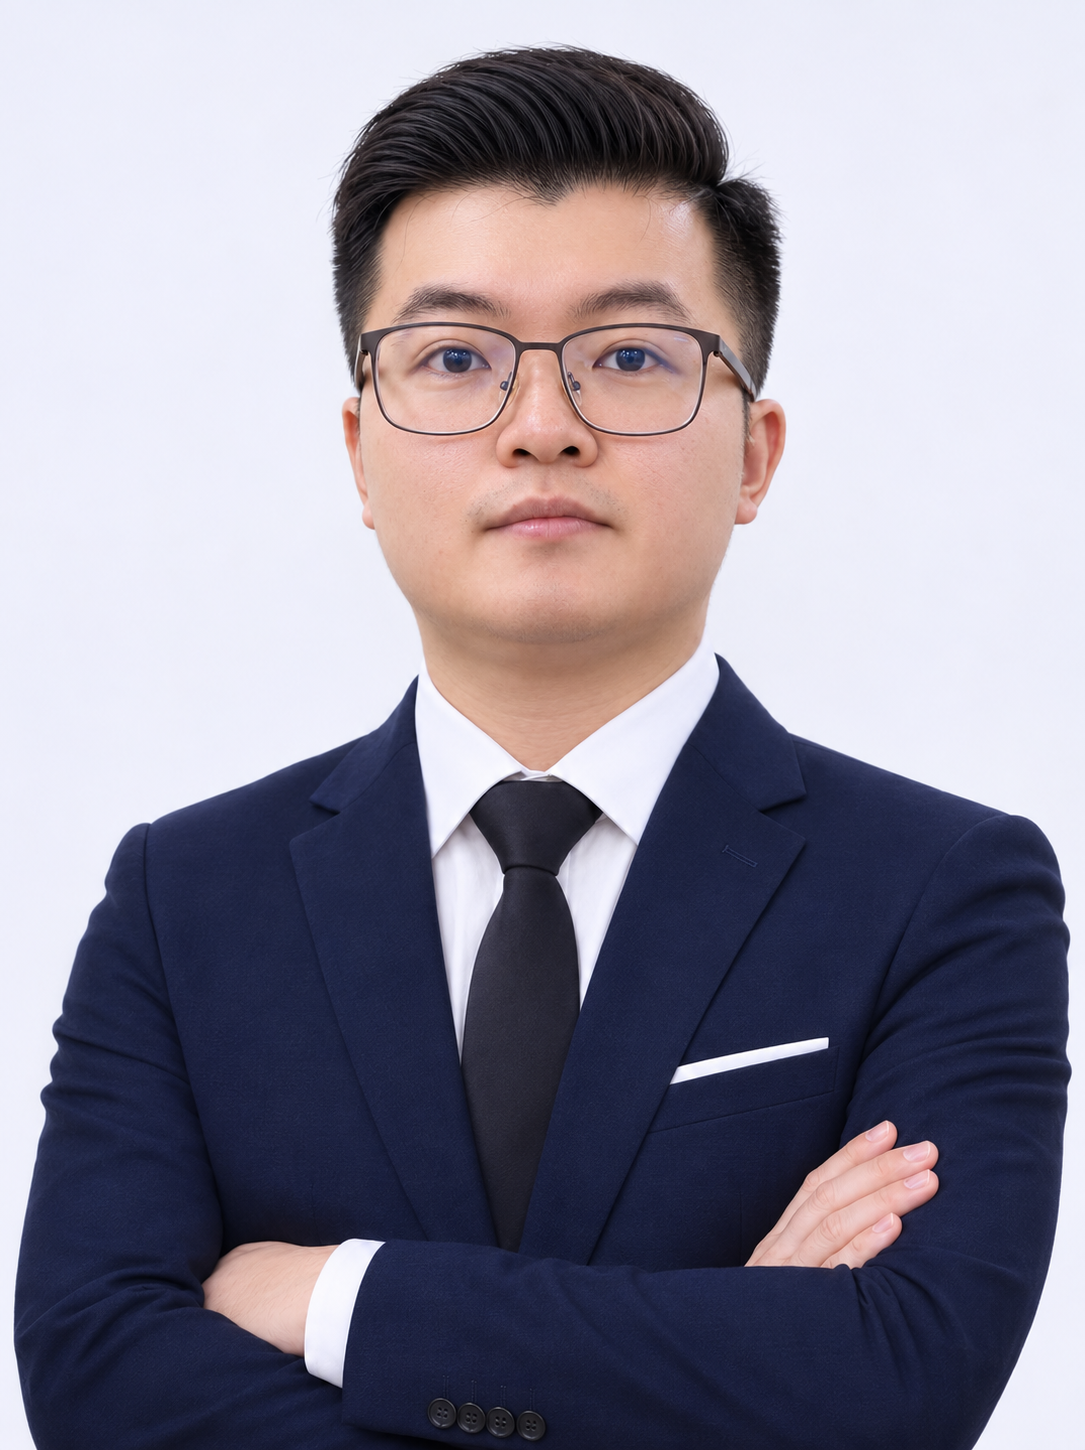
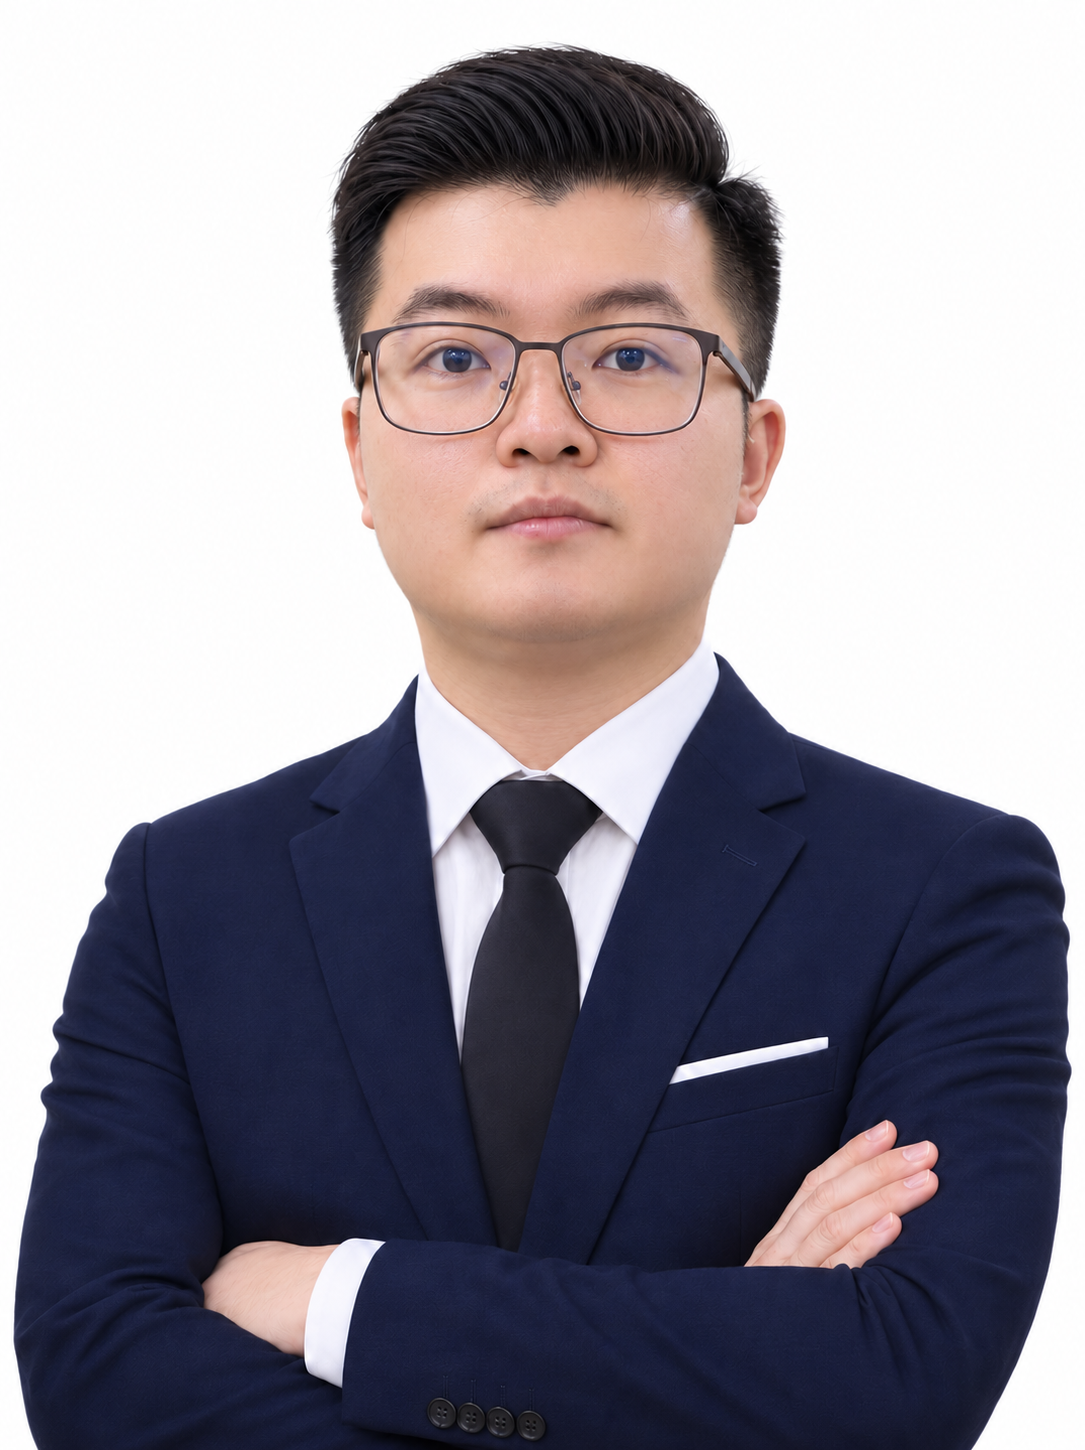
Update homepage

diff --git a/index.html b/index.html
@@ -12,7 +12,7 @@
 <meta property="og:type" content="website">
 <meta property="og:url" content="https://guowei1314.github.io/">
 <meta property="og:site_name" content="Wei Guo · 郭伟">
-<meta property="og:image" content="https://guowei1314.github.io/assets/portrait-white.png?v=1">
+<meta property="og:image" content="https://guowei1314.github.io/assets/portrait-white.png?v=2">
 <meta property="og:image:alt" content="Portrait of Wei Guo / 郭伟">
 <link id="site-favicon" rel="icon" href="assets/mark.svg?v=10" type="image/svg+xml" sizes="any">
 <link rel="stylesheet" href="styles.css?v=17">
@@ -74,7 +74,7 @@
 </svg>GitHub</a>
 </div>
 <div class="profile-body">
-<img class="portrait" src="assets/portrait-white.png?v=1" width="1085" height="1450" alt="Wei Guo / 郭伟" fetchpriority="high">
+<img class="portrait" src="assets/portrait-white.png?v=2" width="1085" height="1450" alt="Wei Guo / 郭伟" fetchpriority="high">
 <p lang="en">I am a Ph.D. student in Electronic Information at <a href="https://www.njust.edu.cn/">Nanjing University of Science and Technology</a>, advised by <a href="https://gsmis.njust.edu.cn/open/TutorInfo.aspx?dsbh=nd6JAW5CjnitHlhLvmFiGQ==&amp;yxsh=z70ppxVSQAs=&amp;zydm=SwsWR9zpmmw=">Prof. Quansen Sun</a>.</p>
 <p lang="zh-CN">我目前是<a href="https://www.njust.edu.cn/">南京理工大学</a>电子信息专业博士研究生，博士导师为<a href="https://gsmis.njust.edu.cn/open/TutorInfo.aspx?dsbh=nd6JAW5CjnitHlhLvmFiGQ==&amp;yxsh=z70ppxVSQAs=&amp;zydm=SwsWR9zpmmw=">孙权森教授</a>。</p>
 <p lang="en">Before beginning my Ph.D., I received my master's degree from Southwest University in 2025 under the supervision of <a href="http://ceie.swu.edu.cn/info/1114/4002.htm">Prof. Hangjun Che</a>.</p>
